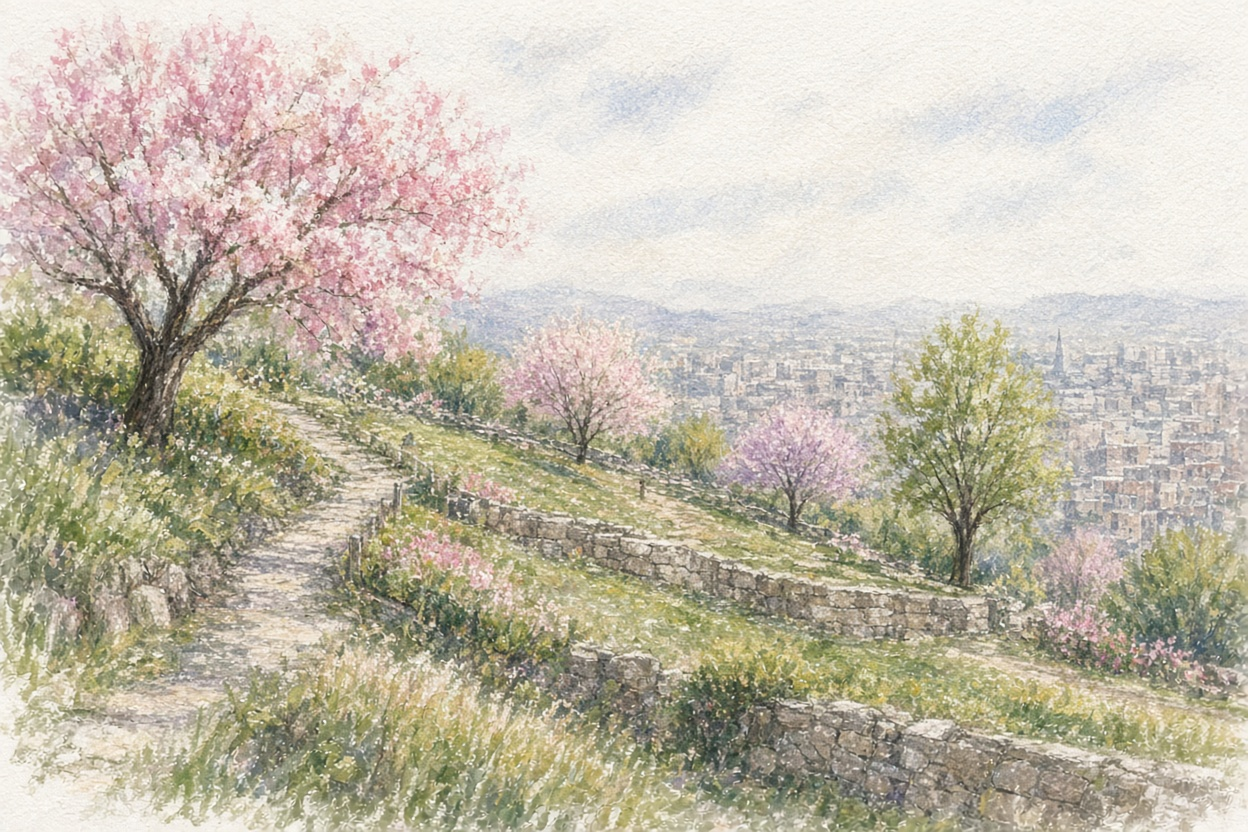
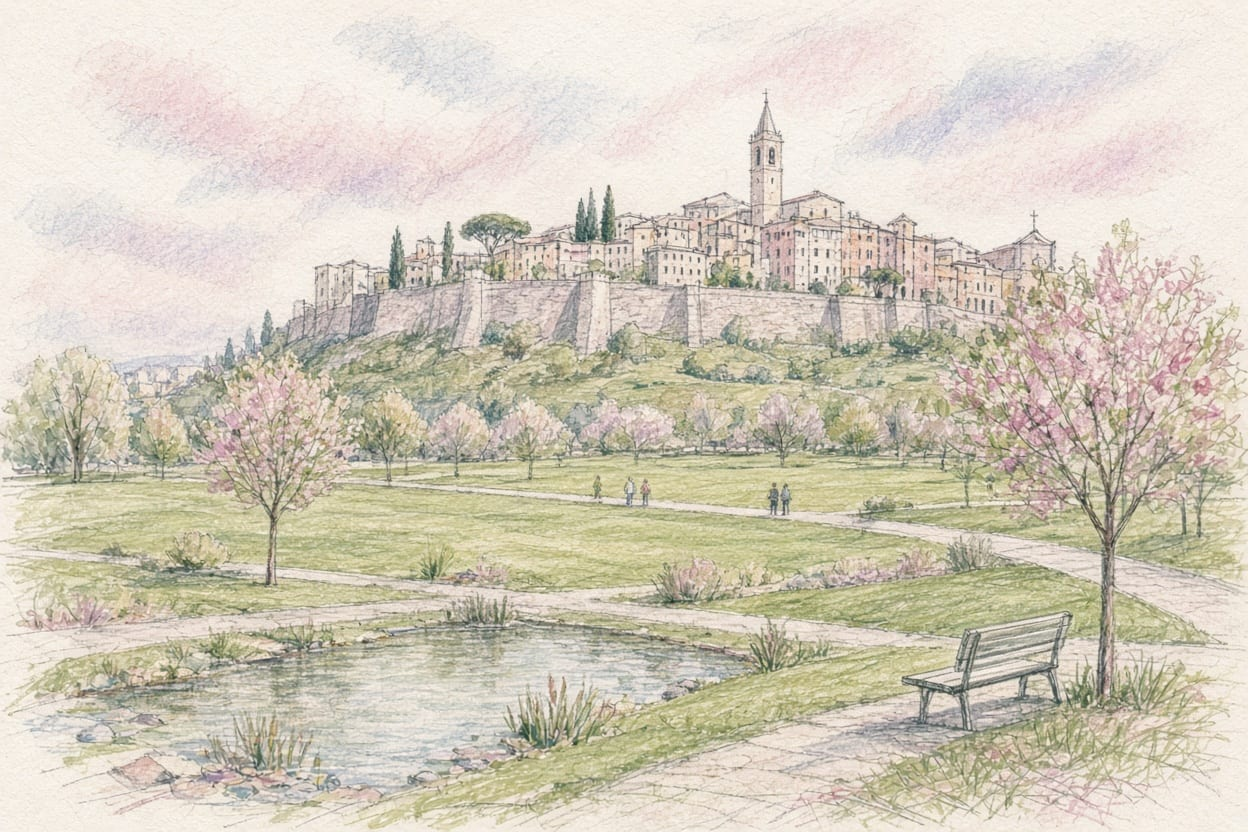
Cities: real places in the right neighbourhoods, and a few wrong words
From the whole-app scan (content review), 2026-10-29; each checked in the
files before changing. The less certain neighbourhood findings (Palermo,
Milan, Siena, Lecce, Taormina's market, Puebla, Oaxaca) are left for now.

Italy:
- Venice: the Rialto market and Antiche Carampane are in San Polo, not
  San Marco (San Polo added to the city's neighbourhoods).
- Verona: Porta Nuova station isn't in Borgo Trento, across the Adige;
  now "Porta Nuova".
- Bergamo: Parco della Trucca is a flat park in Città Bassa, not a hillside
  in Città Alta: neighbourhood, picture (redone) and Giulia's line.
  "consigliosa" isn't a word: her traits are now cultured, helpful, reserved.
- Orvieto: the real Bottega Michelangeli is known for carved wood; the
  place and its person were ceramics (Orvieto's maiolica). Kept the
  ceramics as an invented shop, "La Bottega della Maiolica", and the
  person is Marta Pieroni, not named after the real family. (Claude's
  rebalance of 2026-10-27 had made her a ceramist "from a family of
  ceramists".)
- Verona: "gelatiera" → "gelataia" (also from that rebalance).
- Two `here` lines spoke of the person in the third person ("Ask her…",
  "ask him…", Mantova and Taormina); now to them.
- Rome: "where to stand to see the painted ceiling" is Sant'Ignazio's
  trick; Il Gesù's is the ceiling whose figures spill out of the frame.

Mexico:
- San Miguel had two people called Marisol: the tumbagones seller (added
  2026-10-27) is now Rocío.
[…]

diff --git a/content/it/cities/bergamo.ts b/content/it/cities/bergamo.ts
@@ -246,10 +246,10 @@ export const bergamo: CityPantry = {
       id: 'parco-della-trucca',
       name: 'Parco della Trucca',
       kind: 'park',
-      neighbourhood: 'Città Alta',
+      neighbourhood: 'Città Bassa',
       real: true,
       characterId: 'giulia-mazzoleni',
-      imagePrompt: 'Soft pastel sketch on white paper of a terraced hillside park with walking paths, flowering trees, warm green and pink spring tones, textured grass and stonework, views of lower city, peaceful atmospheric quality',
+      imagePrompt: 'Soft pastel sketch on white paper of a large flat modern park in the lower city, with a pond, wide lawns, young trees and walking paths, and the walls of Città Alta on its hill in the distance, warm green and pink spring tones, peaceful atmospheric quality',
     },
     {
       id: 'sentierone',
@@ -618,7 +618,7 @@ export const bergamo: CityPantry = {
       placeId: 'parco-della-trucca',
       personality: ["attiva", "naturalista", "solare"],
       portraitPrompt: 'Pen and ink portrait on white paper of a fit young woman in work clothes, sun-touched face, gardening gloves suggested, minimal green watercolor wash, detailed outdoor worker vitality, love of nature evident',
-      here: "You look after the paths and flower beds of this hillside park above the lower city. Locals come here for a walk with a view, especially at sunset.",
+      here: "You look after the paths and flower beds of this big park in the lower city, with its pond and lawns and Città Alta on its hill in the distance. Locals come here for a walk, a run, or a sit in the sun.",
     },
     {
       id: 'federico-ruggeri',
@@ -657,7 +657,7 @@ export const bergamo: CityPantry = {
       age: 36,
       role: 'libraia',
       placeId: 'libreria-sant-agostino',
-      personality: ["colta", "consigliosa", "riservata"],
+      personality: ["cultured", "helpful", "reserved"],
       portraitPrompt: 'Pen and ink portrait on white paper of an intellectual woman with reading glasses, book in hand suggested, thoughtful expression, minimal sepia watercolor wash, detailed literary sensibility, bookseller wisdom',
       here: "You run this independent bookshop in Città Bassa and recommend books to anyone who wants to learn about Bergamo. Around the Festival Donizetti in autumn, people ask you about the composer born in this city.",
     },

diff --git a/content/it/cities/verona.ts b/content/it/cities/verona.ts
@@ -4,7 +4,7 @@ export const verona: CityPantry = {
   id: 'verona',
   name: 'Verona',
   region: 'Veneto',
-  neighbourhoods: ['Centro Storico', 'Veronetta', 'Borgo Trento', 'San Zeno'],
+  neighbourhoods: ['Centro Storico', 'Veronetta', 'Borgo Trento', 'San Zeno', 'Porta Nuova'],
   places: [
     // BARS & CAFÉS (3)
     {
@@ -250,7 +250,7 @@ export const verona: CityPantry = {
       id: 'stazione-porta-nuova',
       name: 'Stazione di Verona Porta Nuova',
       kind: 'station',
-      neighbourhood: 'Borgo Trento',
+      neighbourhood: 'Porta Nuova',
       real: true,
       characterId: 'paolo-stazione',
       imagePrompt: 'Soft pastel sketch on white paper of a grand railway station with Art Nouveau details, travelers with luggage, departure boards, ticket windows, pigeons on the forecourt, gateway to the city atmosphere in warm stone, railway gray and soft gold',
@@ -539,7 +539,7 @@ export const verona: CityPantry = {
       name: "Sara Zanetti",
       gender: "f",
       age: 26,
-      role: "gelatiera",
+      role: "gelataia",
       placeId: 'gelateria-ponte-pietra',
       personality: ["cheerful", "innovative", "quick"],
       portraitPrompt: "Pen and ink portrait on white paper of a friendly woman in her twenties with warm smile, bright eyes, wearing casual gelato shop uniform, holding gelato scoop, enthusiastic expression, detailed linework with watercolor in pistachio green and cream",

diff --git a/content/it/cities/venezia.ts b/content/it/cities/venezia.ts
@@ -4,7 +4,7 @@ export const venezia: CityPantry = {
   id: 'venezia',
   name: 'Venezia',
   region: 'Veneto',
-  neighbourhoods: ['Cannaregio', 'Castello', 'Dorsoduro', 'San Marco'],
+  neighbourhoods: ['Cannaregio', 'Castello', 'Dorsoduro', 'San Marco', 'San Polo'],
   places: [
     // DAILY ROUTINE - Bars/Cafés (9)
     {
@@ -132,7 +132,7 @@ export const venezia: CityPantry = {
       id: 'mercato-rialto',
       name: 'Mercato di Rialto',
       kind: 'market',
-      neighbourhood: 'San Marco',
+      neighbourhood: 'San Polo',
       real: true,
       characterId: 'sergio-rialto',
       imagePrompt: 'The famous Rialto fish and produce market, vibrant seafood blues and vegetable greens, market stalls under white canopies, Grand Canal beyond, lively morning commerce, iconic Venetian scene.',
@@ -161,7 +161,7 @@ export const venezia: CityPantry = {
       id: 'ristorante-antiche-carampane',
       name: 'Antiche Carampane',
       kind: 'restaurant',
-      neighbourhood: 'San Marco',
+      neighbourhood: 'San Polo',
       real: true,
       characterId: 'lorenzo-carampane',
       imagePrompt: 'A hidden traditional restaurant in a quiet calle, white tablecloths glimpsed through windows, intimate dining room, classic Venetian elegance.',

diff --git a/content/it/cities/taormina.ts b/content/it/cities/taormina.ts
@@ -504,7 +504,7 @@ export const taormina: CityPantry = {
       placeId: 'mercato-giardini',
       personality: ["boisterous", "generous with samples", "produce expert"],
       portraitPrompt: "Pen and ink portrait on white paper with minimal watercolor wash, of a Tunisian man from Sfax, market vendor with short dark hair and a trimmed beard, animated expression, holding citrus fruit, calling to customers, energetic pen strokes, vibrant green and orange wash, lively character, white background. The subject is a man.",
-      here: "You sell lemons, tomatoes, eggplants and capers at the market in Giardini Naxos, down by the sea, and hand out samples; ask him what goes into a good caponata. Your background: from Sfax, Tunisia, here 14 years.",
+      here: "You sell lemons, tomatoes, eggplants and capers at the market in Giardini Naxos, down by the sea, and hand out samples; you love explaining what goes into a good caponata. Your background: from Sfax, Tunisia, here 14 years.",
     },
     {
       id: 'concetta-luciano',

diff --git a/content/it/cities/mantova.ts b/content/it/cities/mantova.ts
@@ -349,7 +349,7 @@ export const mantova: CityPantry = {
       placeId: 'caffe-modi',
       personality: ["refined", "local", "dignified"],
       portraitPrompt: "Pen and ink portrait on white paper of a distinguished woman in her late fifties with silver hair, elegant posture, wearing a crisp white shirt and vest. Slight smile, knowing eyes. Minimal watercolor wash in warm sepia tones, detailed crosshatching showing refined café owner character.",
-      here: "You run this elegant café on Piazza delle Erbe, where Mantuans come for a morning coffee and, later in the day, for the aperitivo. Ask her what goes best with a slice of sbrisolona. Your background: Mantuan, from a family of the old town.",
+      here: "You run this elegant café on Piazza delle Erbe, where Mantuans come for a morning coffee and, later in the day, for the aperitivo. You'll tell anyone what goes best with a slice of sbrisolona. Your background: Mantuan, from a family of the old town.",
     },
     {
       id: 'silvia-barista',

diff --git a/content/es-mx/cities/ciudad-de-mexico.ts b/content/es-mx/cities/ciudad-de-mexico.ts
@@ -4,7 +4,7 @@ export const ciudadDeMexico: CityPantry = {
   id: 'ciudad-de-mexico',
   name: 'Ciudad de México',
   region: 'Ciudad de México',
-  neighbourhoods: ['Roma Norte', 'Condesa', 'Coyoacán', 'Centro Histórico'],
+  neighbourhoods: ['Roma Norte', 'Condesa', 'Coyoacán', 'Centro Histórico', 'Venustiano Carranza'],
   places: [
     {
       id: 'puesto-de-boleo-don-chucho',
@@ -119,7 +119,7 @@ export const ciudadDeMexico: CityPantry = {
       id: 'terminal-tapo',
       name: 'Terminal de Autobuses del Oriente (TAPO)',
       kind: 'bus-terminal',
-      neighbourhood: 'Centro Histórico',
+      neighbourhood: 'Venustiano Carranza',
       real: true,
       characterId: 'arturo-taquillero-cdmx',
       imagePrompt: 'a busy bus terminal in Ciudad de México. Travelers with bags at ticket counters, departure boards overhead, buses visible through glass doors, snack vendors, people waiting on benches.',

diff --git a/content/it/cities/roma-nuova.ts b/content/it/cities/roma-nuova.ts
@@ -211,7 +211,7 @@ export const romaNuova: CityPantry = {
       placeId: 'gesu-piazza',
       personality: ['kind', 'precise', 'curious'],
       portraitPrompt: 'Pen and ink portrait on white paper of a 67-year-old woman with short silver hair, round glasses and a calm, attentive face, wearing a camel coat, a silk scarf and flat leather shoes. She is holding a worn leather handbag and a folded newspaper under her arm, minimal watercolor wash in warm Roman ochre and terracotta tones, detailed crosshatching, no lettering anywhere in the picture. The subject is a woman.',
-      here: 'You come to Il Gesù most mornings, and you like showing newcomers where to stand to see the painted ceiling.',
+      here: "You come to Il Gesù most mornings, and you like showing newcomers the painted ceiling, where the figures seem to tumble out of the frame into the church.",
     },
     {
       id: 'ettore-gentili-nuova',

diff --git a/content/it/cities/orvieto.ts b/content/it/cities/orvieto.ts
@@ -322,10 +322,10 @@ export const orvieto: CityPantry = {
     // CITY CHARACTER (3)
     {
       id: 'bottega-michelangeli',
-      name: 'Bottega Michelangeli',
+      name: 'La Bottega della Maiolica',
       kind: 'shop',
       neighbourhood: 'Duomo',
-      real: true,
+      real: false,
       characterId: 'pietro-michelangeli',
       imagePrompt: 'Soft pastel sketch on white paper of an artisan ceramics workshop with hand-painted majolica pottery, colorful Orvieto designs, potter at wheel, warm terracotta and cobalt blue tones, artistic tradition alive, textured clay and glazes',
     },
@@ -709,7 +709,7 @@ export const orvieto: CityPantry = {
     },
     {
       id: 'pietro-michelangeli',
-      name: "Marta Michelangeli",
+      name: "Marta Pieroni",
       gender: "f",
       age: 46,
       role: "maestra ceramista",

diff --git a/content/es-mx/cities/guadalajara.ts b/content/es-mx/cities/guadalajara.ts
@@ -103,7 +103,7 @@ export const guadalajara: CityPantry = {
       neighbourhood: 'Centro',
       real: true,
       characterId: 'rosa-estudiante',
-      imagePrompt: 'the Jardín de San Francisco, Centro, Guadalajara. A peaceful plaza with tall trees and stone benches beside the Templo Expiatorio, with a young woman sitting on a bench with textbooks and a laptop while pigeons wander and people pass through.',
+      imagePrompt: 'the Jardín de San Francisco, Centro, Guadalajara. A peaceful plaza with tall trees and stone benches beside the old Templo de San Francisco, with a young woman sitting on a bench with textbooks and a laptop while pigeons wander and people pass through.',
     },
     {
       id: 'escuela-lengua-guadalajara',

diff --git a/content/es-mx/cities/oaxaca.ts b/content/es-mx/cities/oaxaca.ts
@@ -303,7 +303,7 @@ export const oaxaca: CityPantry = {
     'Día de Muertos, con altares, flores de cempasúchil y comparsas',
     'La Noche de Rábanos el 23 de diciembre',
     'Ir al mercado por días, con tianguis grandes cada semana en los pueblos de los Valles Centrales',
-    'Regatear con cariño en el mercado y pedir la ñapa',
+    'Regatear con cariño en el mercado y pedir el pilón',
     'Los cohetes y las campanas de las iglesias que anuncian las fiestas desde la mañana',
   ],
   localTouches: [

diff --git a/content/es-mx/cities/san-miguel-de-allende.ts b/content/es-mx/cities/san-miguel-de-allende.ts
@@ -259,7 +259,7 @@ export const sanMiguelDeAllende: CityPantry = {
     },
     {
       id: 'marisol-tumbagones',
-      name: 'Marisol',
+      name: 'Rocío',
       gender: 'f',
       age: 34,
       role: 'dulcera',
